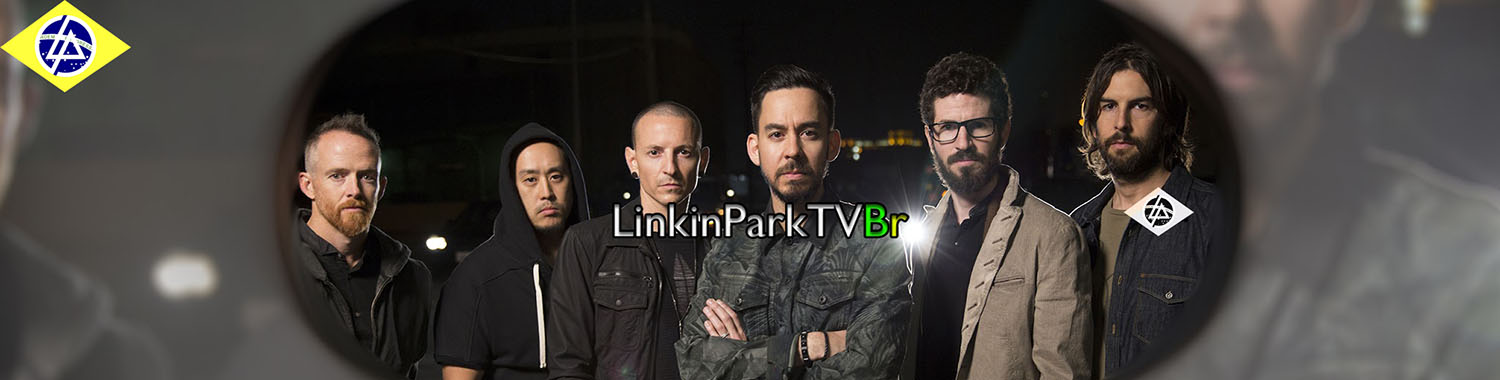
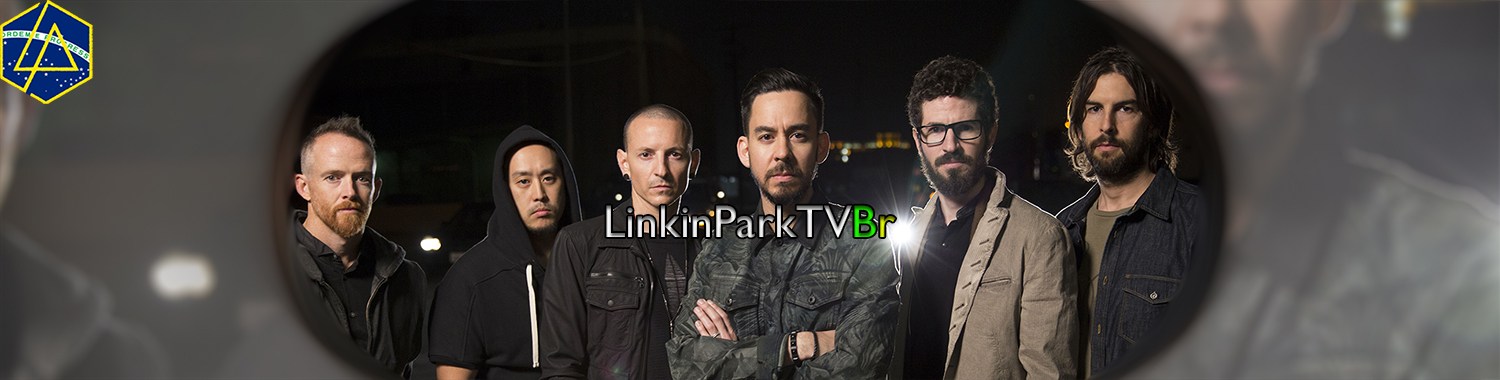
Adicionando One More Light na listagem de álbuns
Adicionando capa do single Heavy
Adicionando capa de album One More Light
Adicionando comportamento de link inativo em listagem de música de
álbuns
Mudança de banner com logo nova
Deletando imagens não usadas

diff --git a/resources/css/listaMusicasRelease.css b/resources/css/listaMusicasRelease.css
@@ -40,6 +40,15 @@
 	-moz-transition-duration: 0.3s;
 }
 
+#button-td .disabled {
+	opacity: 0.5;
+	background: #BDBDBD;
+}
+
+#button-td .disabled:active {
+	border: 1px inset transparent;
+}
+
 .trad-button:hover, .trad-button:focus {
 	background: #757575;
 }

diff --git a/resources/css/traducao-template.css b/resources/css/traducao-template.css
@@ -80,7 +80,10 @@
 	text-shadow: 2px 2px 3px white;
 	color: black;
 	text-decoration: none;
-	font-weight: bold;
+}
+
+.album-text.disabled {
+	opacity: 0.5;
 }
 
 .album-copyright {

diff --git a/resources/php/listagemMusicas.php b/resources/php/listagemMusicas.php
@@ -36,10 +36,20 @@ class listagemMusicas {
 		foreach ( $albumSelecionado as $url => $itemMusica ) {
 			if (isset ( $itemMusica ['title'] ) && (is_array ( $itemMusica ))) {
 				$title = $itemMusica ['title'];
+				$class = "trad-button";
+				$href = "href=\"$url/\"";
+				$tooltip = "Tradução de $title";
+				
+				if(isset($itemMusica['disabled']) && $itemMusica['disabled'] === "true") {
+					$class = $class." disabled";
+					$href = "";
+					$tooltip = "Não há nada sobre essa música ainda.";
+				}
+				
 				echo "<tr>";
 				echo "<td>$numero.</td>";
 				echo "<td>$title</td>";
-				echo "<td id=\"button-td\"><a class=\"trad-button\" href=\"$url/\">Tradução</a></td>";
+				echo "<td id=\"button-td\"><a class=\"$class\" $href title=\"$tooltip\">Tradução</a></td>";
 				echo "</tr>";
 				
 				$numero ++;
@@ -51,8 +61,18 @@ class listagemMusicas {
 		foreach ( $albumSelecionado as $url => $itemMusica ) {
 			if (isset ( $itemMusica ['title'] ) && (is_array ( $itemMusica ))) {
 				$title = $itemMusica ['title'];
+				$class = "album-text";
+				$href = "href=\"/musica/$tipo/$urlAlbum/$url/\"";
+				$tooltip = "Tradução de $title";
+				
+				if(isset($itemMusica['disabled']) && $itemMusica['disabled'] === "true") {
+					$class = $class." disabled";
+					$href = "";
+					$tooltip = "Não há nada sobre essa música ainda.";
+				}
+				
 				echo "<li class=\"traducao-li\">";
-				echo "<a class=\"album-text\" href=\"/musica/$tipo/$urlAlbum/$url/\">$numero. $title</a>";
+				echo "<a class=\"$class\" $href title=\"$tooltip\">$numero. $title</a>";
 				echo "</li>";
 				$numero ++;
 			}
